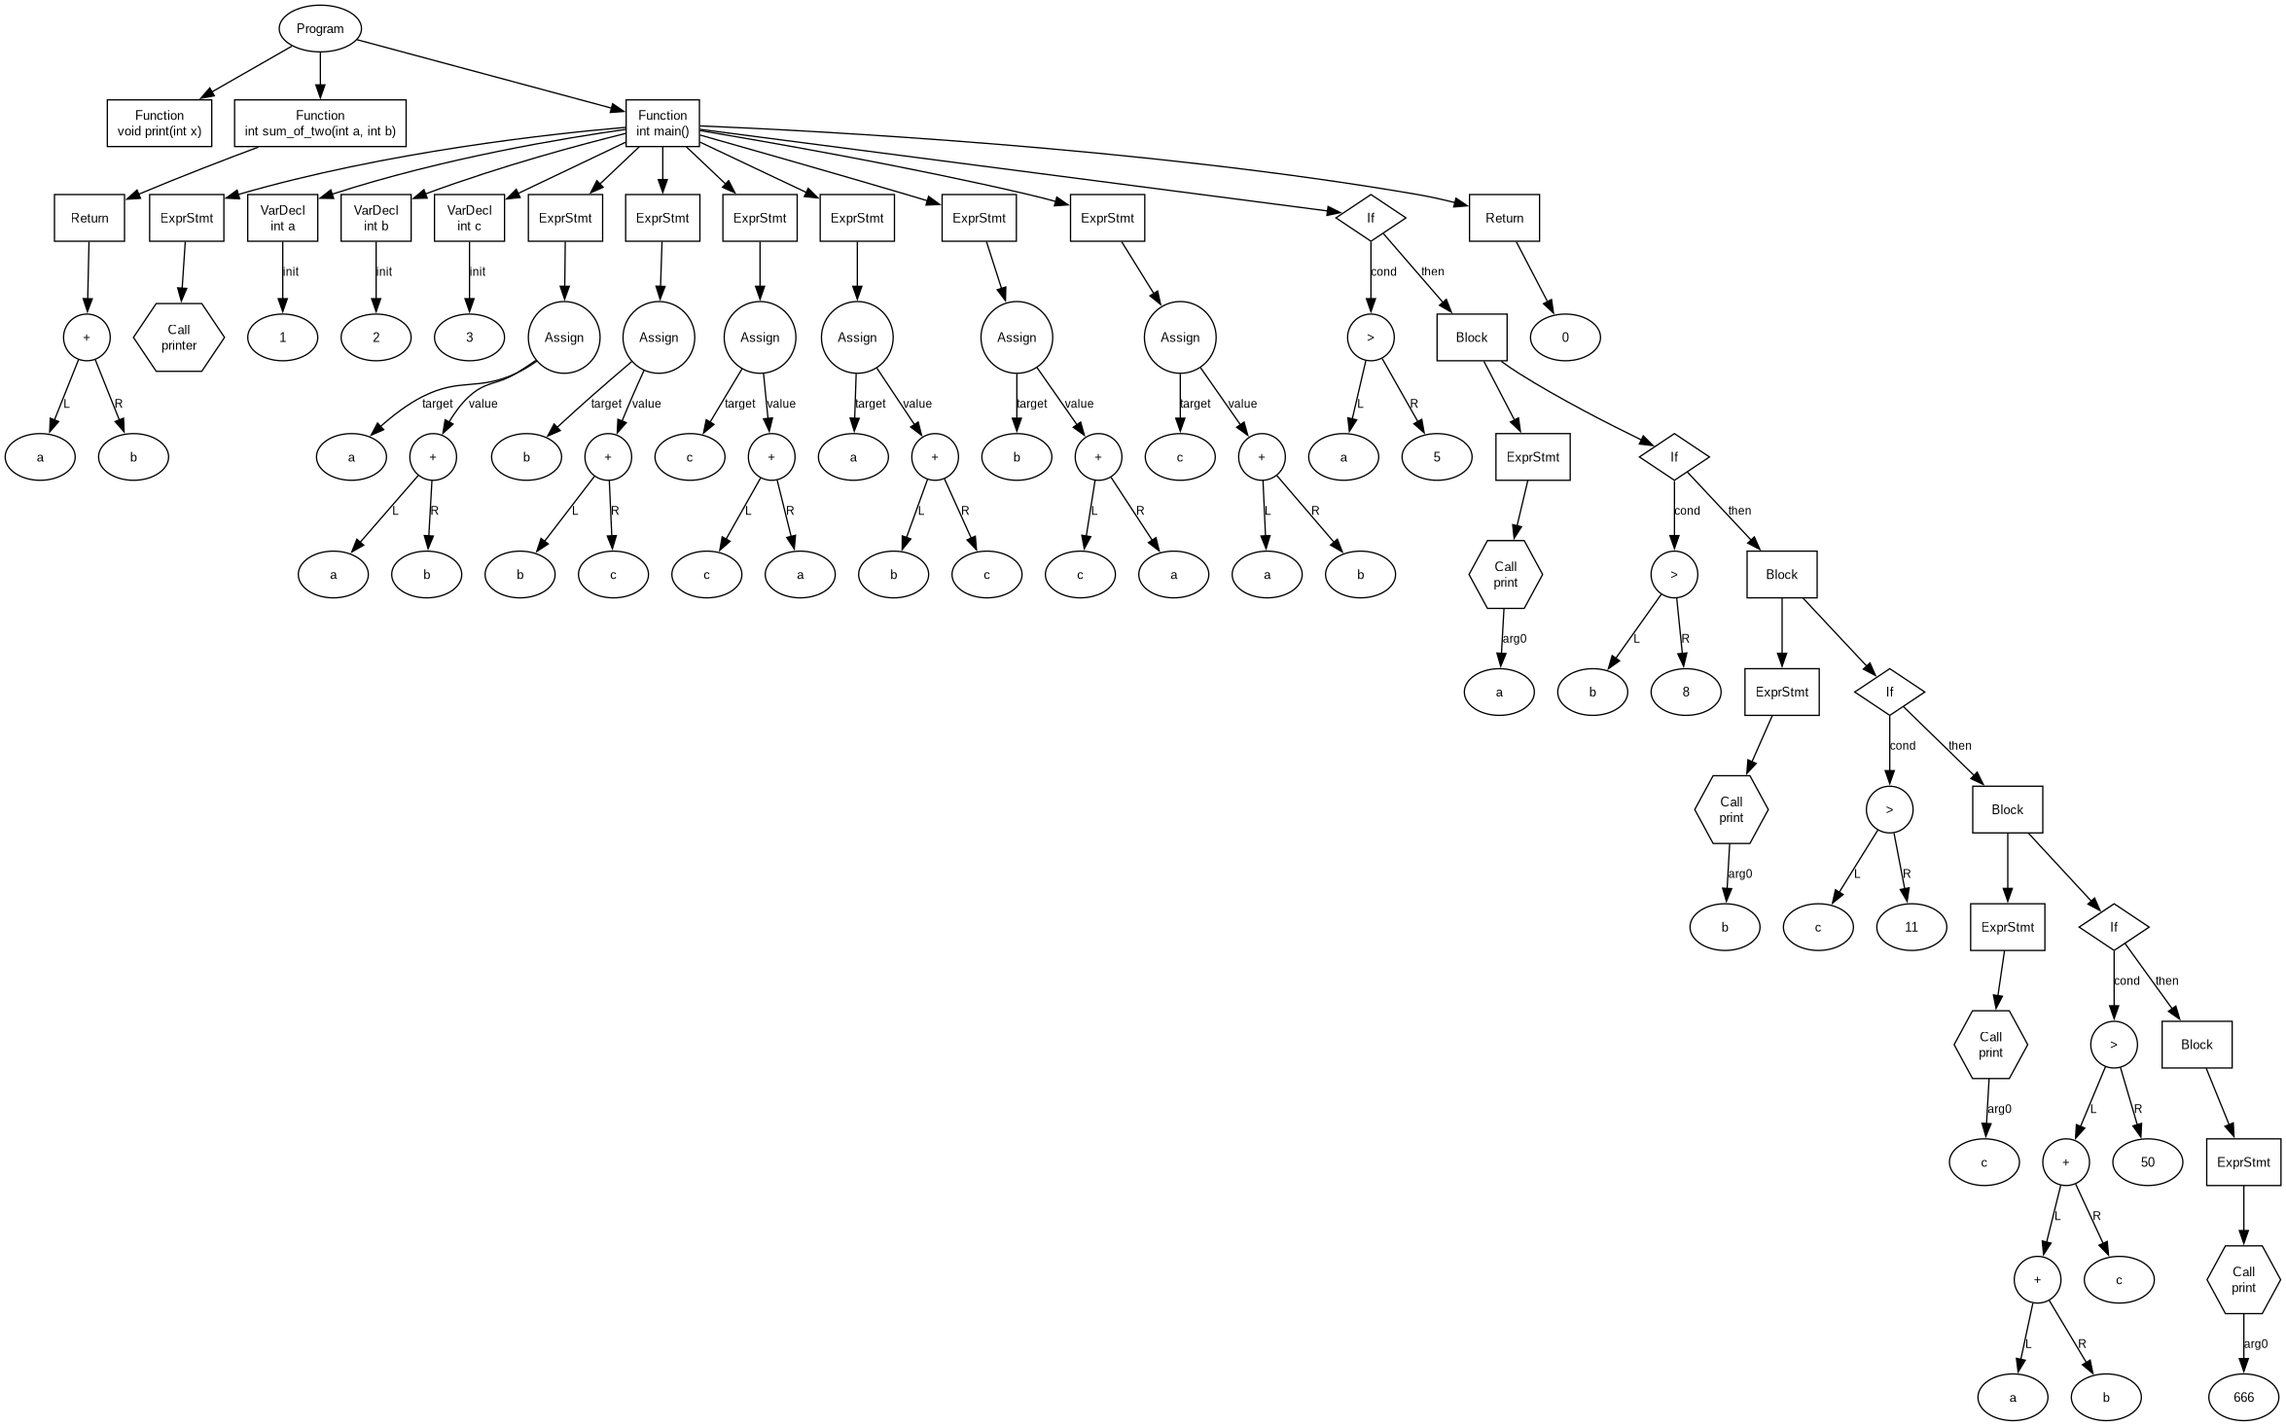
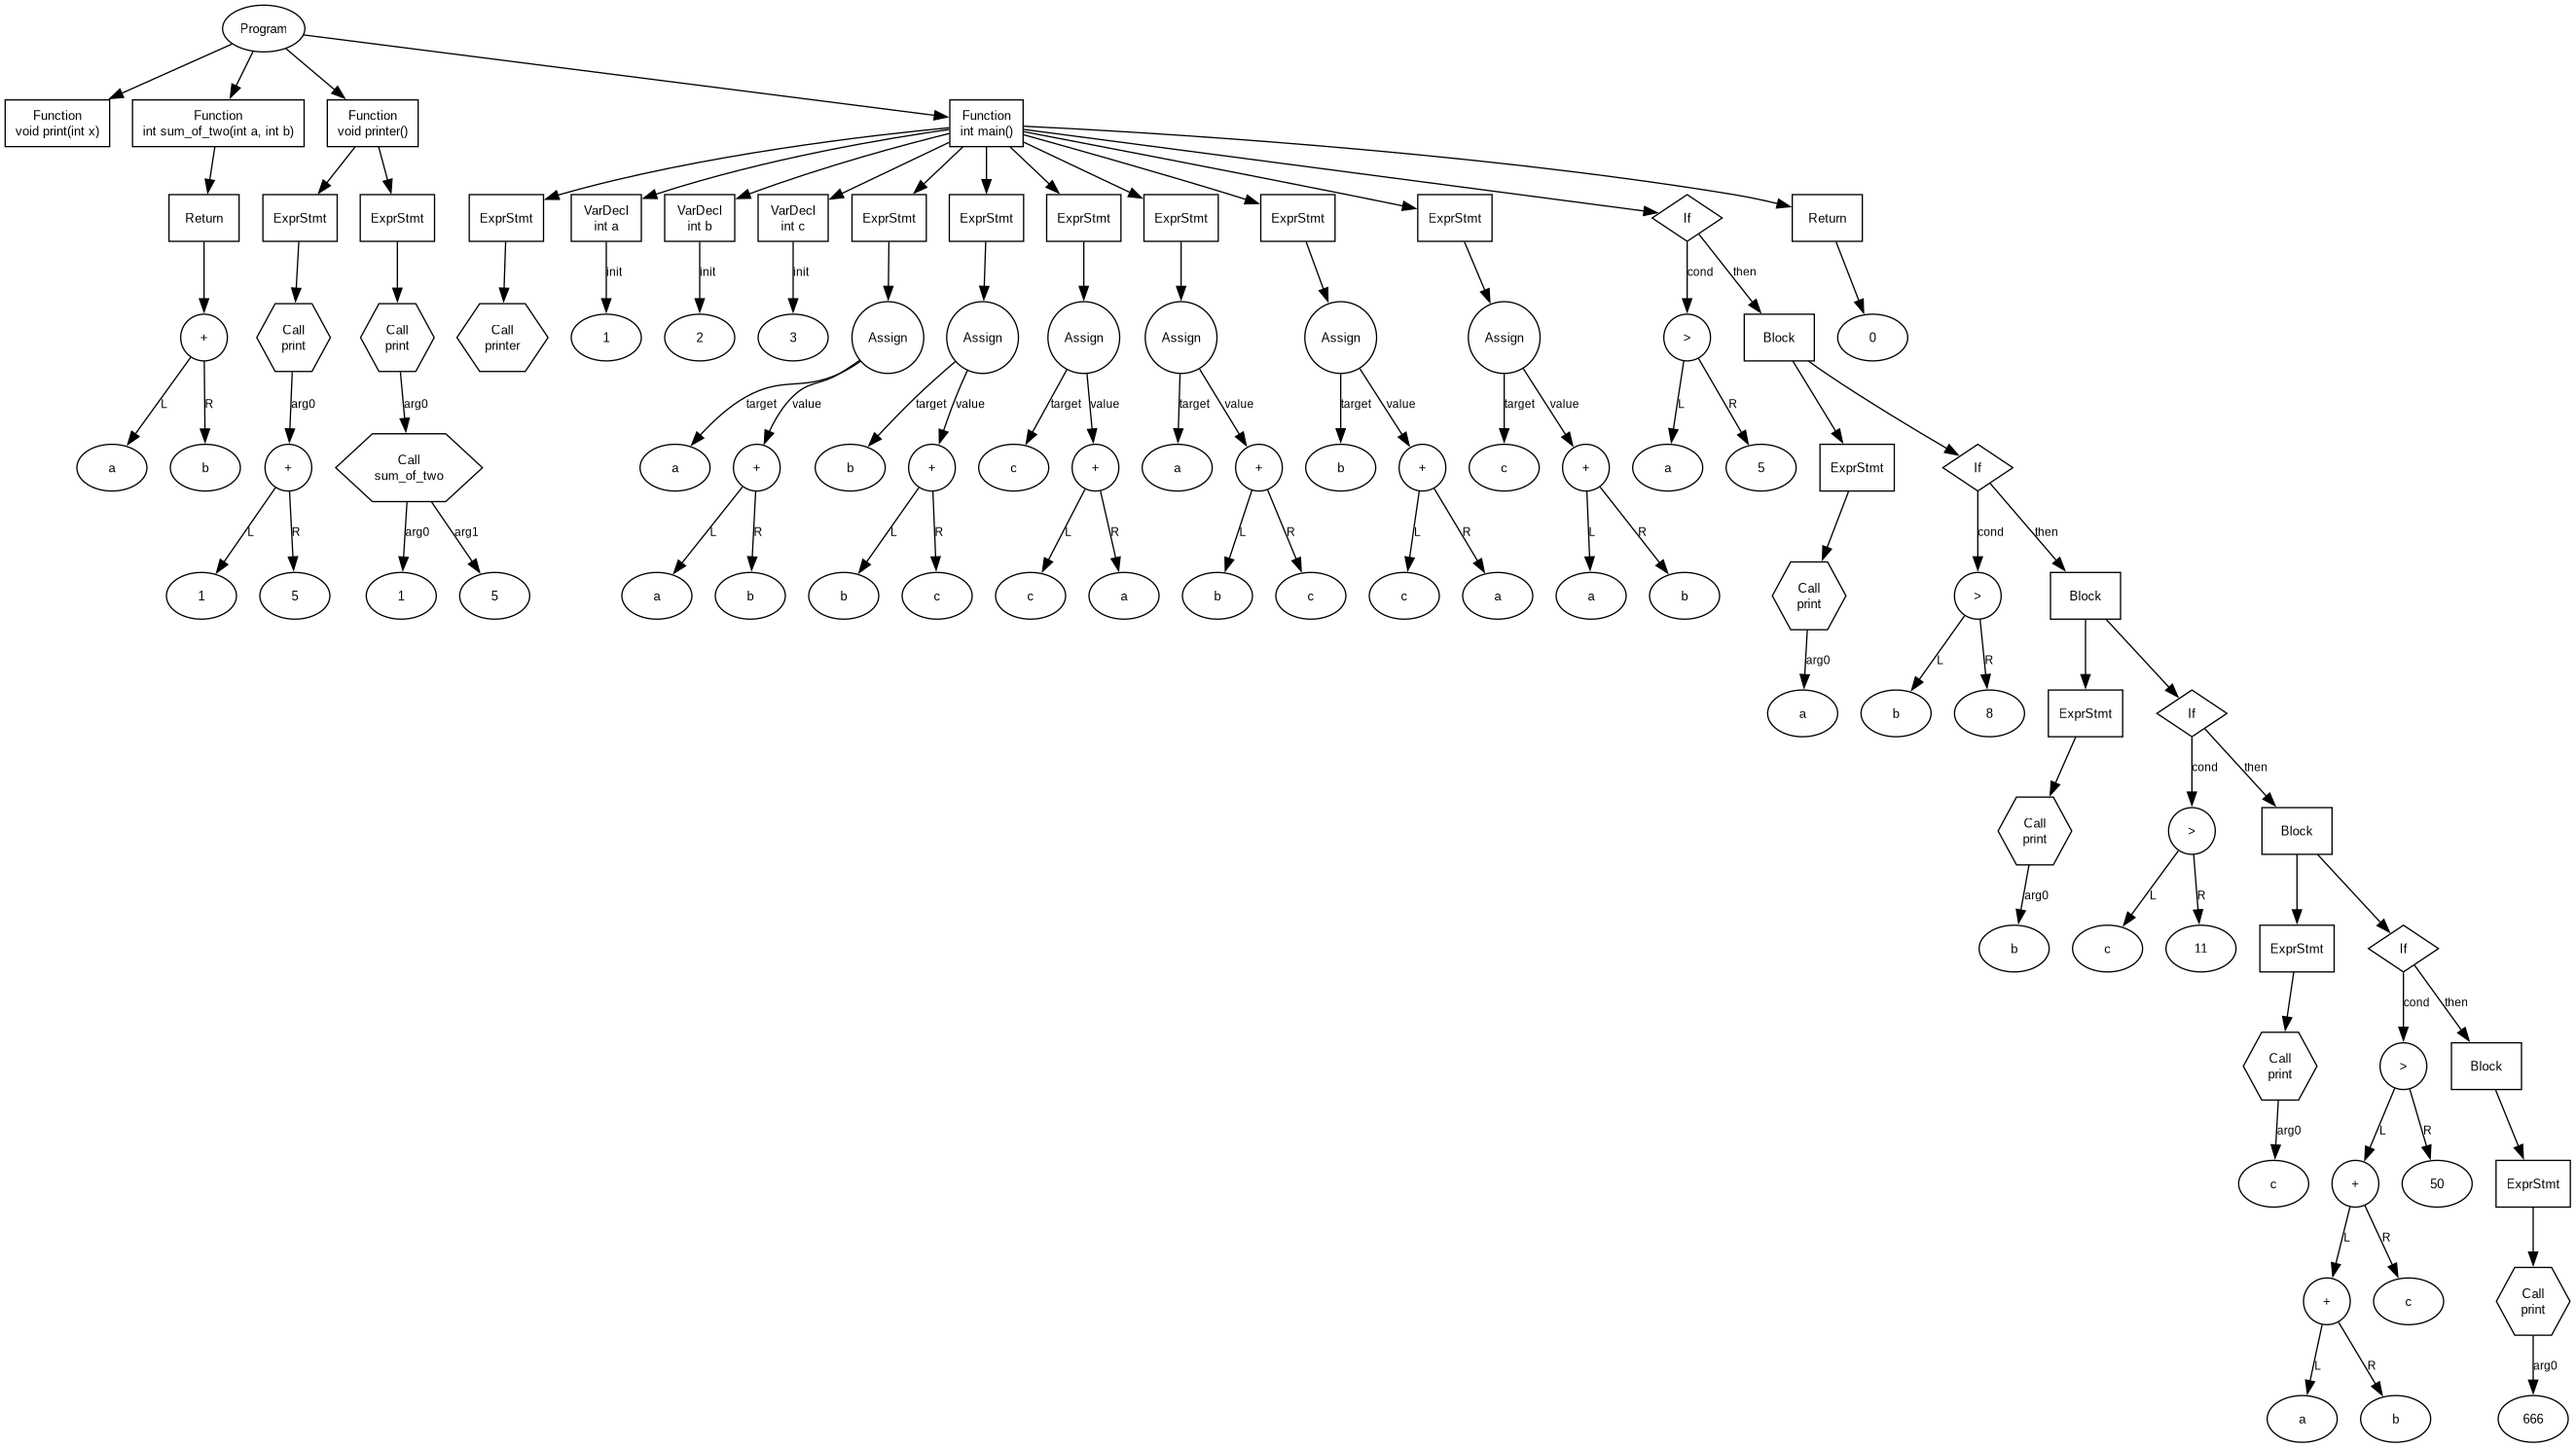
minor fix

Changed region(s): [[0.0, 0.0, 1.0, 1.0], [0.7455, 0.5525, 0.8077, 0.5832], [0.0621, 0.399, 0.0932, 0.4297]]

diff --git a/app/main.cpp b/app/main.cpp
@@ -13,8 +13,8 @@ int sum_of_two(int a, int b) {
 }
 
 void printer() {
-  print 1 + 5;
-  print sum_of_two(1, 5);
+  print(1 + 5);
+  print(sum_of_two(1, 5));
 }
 
 int main() {

diff --git a/README.md b/README.md
@@ -21,8 +21,8 @@ int sum_of_two(int a, int b) {
 }
 
 void printer() {
-  print 1 + 5;
-  print sum_of_two(1, 5);
+  print(1 + 5);
+  print(sum_of_two(1, 5));
 }
 
 int main() {
